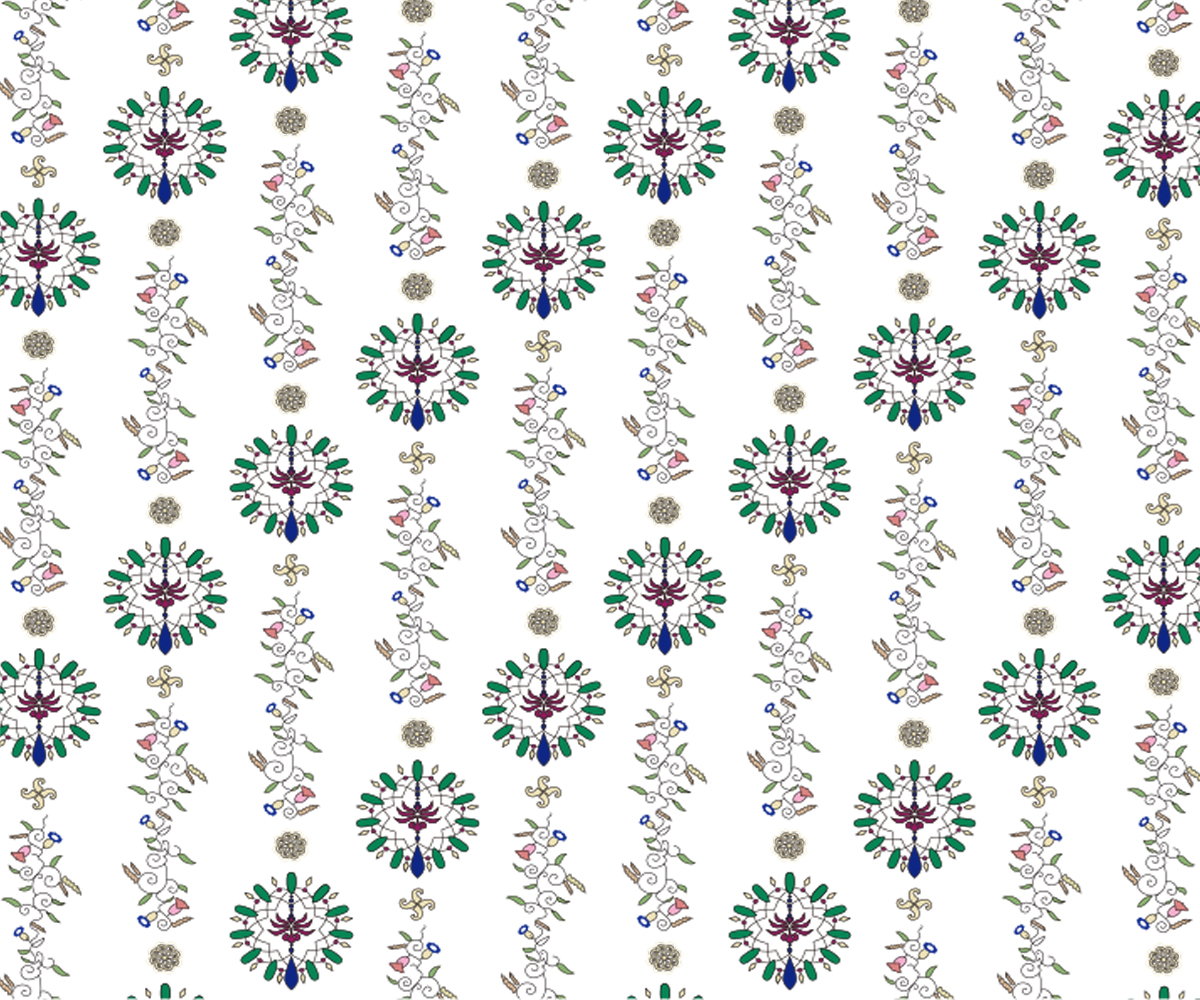
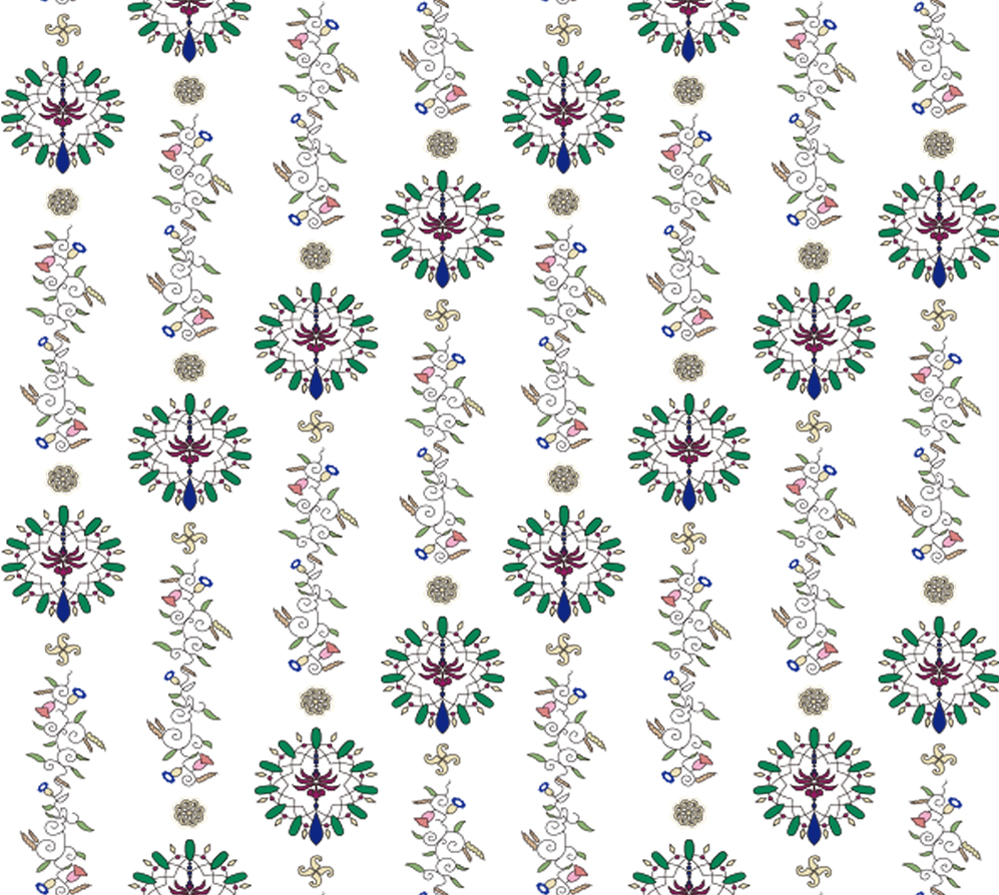
portfolio_background

diff --git a/portfolio/css/style.css b/portfolio/css/style.css
@@ -5,6 +5,9 @@ body {
   font-family: "ヒラギノ角ゴ Pro W3", "Hiragino Kaku Gothic Pro", "游ゴシック", "Yu Gothic", "游ゴシック体", "YuGothic", "Meiryo UI", "メイリオ", Meiryo, sans-serif;
   font-size: 62.5%;
   color: #666;
+  background-image: url(../images/background.jpg);
+  background-color:rgba(255,255,255,0.8);
+background-blend-mode:lighten;
 }
 
 .clearfix::after {
@@ -97,7 +100,6 @@ footer .snsBtn ul li {
 
 .main-pic img {
   width: 100%;
-  display: none;
 }
 
 /************* side nav ***************/
